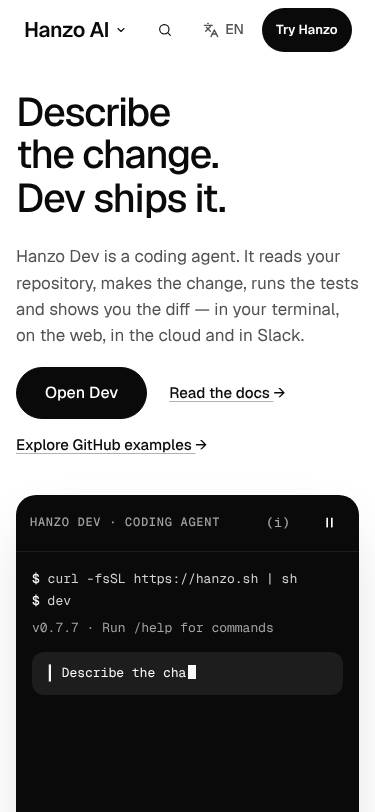
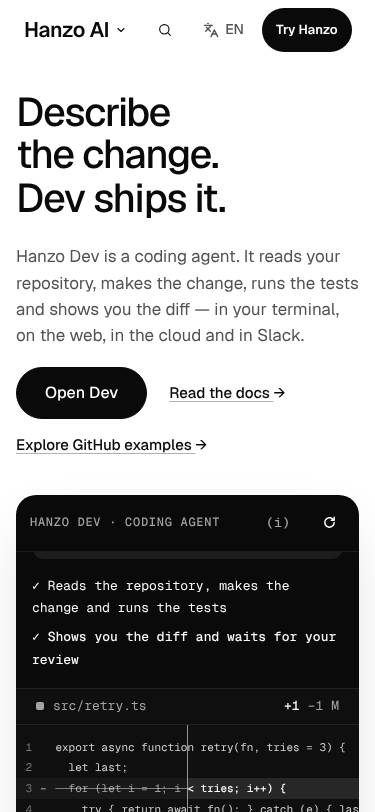
dev: every review fix closed — verifier ledger, phone diff in first screen, rail lands on card edges, deck greys, second-half motion
Claude-Session: https://claude.ai/code/session_01P5YBdx19ukLv4B41yE4M3v

diff --git a/components/pages/DevPage.css b/components/pages/DevPage.css
@@ -453,3 +453,54 @@
 .xdv-oss-p a { transition: text-underline-offset .15s, text-decoration-thickness .15s; }
 .xdv .x-codeblock .x-copy { min-height: 44px; }
 .xdv .x-faq button:active { transform: translateY(1px); }
+
+/* 11. "Built to be checked." holds the verifier's ledger for the hero's change: each line settles in turn (its dot
+   fills, its value types in), then the closing line. Without JS or under reduced motion it is shown settled. */
+.xdv-ledger { margin: 0 0 22px; padding: 6px 0 4px; border-radius: 20px; background: #0a0a0a; color: #d4d4d4; font-size: 13.5px; overflow: hidden; }
+.xdv-led-h { display: flex; align-items: center; gap: 10px; margin: 0; padding: 12px 20px 14px; border-bottom: 1px solid rgba(255, 255, 255, .08); color: #a3a3a3; font-size: 12px; letter-spacing: .08em; text-transform: uppercase; }
+.xdv-led-h i { width: 8px; height: 8px; border-radius: 2px; background: #a3a3a3; }
+.xdv-led-h em { margin-left: auto; font-style: normal; text-transform: none; letter-spacing: 0; color: #737373; }
+.xdv-ledger ol { list-style: none; margin: 0; padding: 8px 0; }
+.xdv-ledger li { display: grid; grid-template-columns: 40px minmax(0, 1fr) auto 28px; align-items: center; height: 40px; padding: 0 20px 0 14px; }
+.xdv-ledger li .n { color: #737373; text-align: right; padding-right: 14px; }
+.xdv-ledger li .k { color: #fafafa; white-space: nowrap; overflow: hidden; text-overflow: ellipsis; }
+.xdv-ledger li .v { color: #fafafa; font-weight: 500; }
+.xdv-ledger li .ok { justify-self: end; width: 10px; height: 10px; border-radius: 50%; background: #fafafa; box-shadow: 0 0 0 1.5px #fafafa; }
+.xdv-led-f { margin: 0; padding: 12px 20px 14px; border-top: 1px solid rgba(255, 255, 255, .08); color: #fafafa; }
+@media (prefers-reduced-motion: no-preference) {
+  .xdv-ledger li { transition: background-color .3s cubic-bezier(.4, 0, .2, 1); }
+  .xdv-ledger li .ok { transition: background-color .3s cubic-bezier(.4, 0, .2, 1), transform .3s cubic-bezier(.16, 1, .3, 1); transition-delay: calc(.35s + var(--i) * .45s); }
+  .xdv-ledger li .v { transition: clip-path .4s cubic-bezier(.16, 1, .3, 1); transition-delay: calc(.3s + var(--i) * .45s); }
+  .xdv-ledger li .k { transition: transform .5s cubic-bezier(.16, 1, .3, 1), opacity .5s; transition-delay: calc(var(--i) * .45s); }
+  .xdv-led-f { transition: clip-path .7s cubic-bezier(.16, 1, .3, 1) 2.2s; }
+  html.js .xdv-ledger:not([data-play]) li .ok { background: transparent; transform: scale(.7); }
+  html.js .xdv-ledger:not([data-play]) li .v { clip-path: inset(0 100% 0 0); }
+  html.js .xdv-ledger:not([data-play]) li .k { transform: translateX(-16px); opacity: 0; }
+  html.js .xdv-ledger:not([data-play]) .xdv-led-f { clip-path: inset(0 100% 0 0); }
+  /* 12. the questions slide in from the side, one after another; the agent prompt types itself across */
+  .xdv-qa-r .x-faq > * { transition: transform .7s cubic-bezier(.16, 1, .3, 1), opacity .5s; }
+  .xdv-qa-r .x-faq > :nth-child(2) { transition-delay: .07s; } .xdv-qa-r .x-faq > :nth-child(3) { transition-delay: .14s; }
+  .xdv-qa-r .x-faq > :nth-child(4) { transition-delay: .21s; } .xdv-qa-r .x-faq > :nth-child(5) { transition-delay: .28s; }
+  html.js .xdv-qa-r:not([data-play]) .x-faq > * { transform: translateX(56px); opacity: 0; }
+  .xdv-paste-r .x-codeblock-l { transition: clip-path 1.4s steps(48, end) .3s; }
+  html.js .xdv-paste-r:not([data-play]) .x-codeblock-l { clip-path: inset(0 100% 0 0); }
+}
+/* 12. the repository sits within 116px of its heading */
+.xdv-repo { margin-top: 20px; }
+/* 14. the rail's left gutter fades, so a card that has gone by never shows a word cut at the screen's edge */
+@media (min-width: 900px) {
+  .xdv-pl-view { -webkit-mask-image: linear-gradient(90deg, transparent calc(max(clamp(16px, 4vw, 32px), calc((100vw - 1280px) / 2)) - 12px), #000 max(clamp(16px, 4vw, 32px), calc((100vw - 1280px) / 2))); mask-image: linear-gradient(90deg, transparent calc(max(clamp(16px, 4vw, 32px), calc((100vw - 1280px) / 2)) - 12px), #000 max(clamp(16px, 4vw, 32px), calc((100vw - 1280px) / 2))); }
+}
+@media (max-width: 700px) {
+  /* 5. the phone sees the diff land in its first screen: a shorter log (it keeps its latest lines), a slimmer file tab */
+  .xdv-term-body { height: 136px; }
+  .xdv-file-tab { height: 36px; }
+  .xdv-ledger { font-size: 13px; }
+  .xdv-ledger li { padding-right: 14px; grid-template-columns: 34px minmax(0, 1fr) auto 24px; }
+}
+/* 9. deck greys only: the shared tokens' greys are swapped for the deck ramp on this page */
+.xdv { --soft: #737373; --faint: #a3a3a3; --card: #f5f5f5; }
+.xdv .x-tab, .xdv .x-tab-t, .xdv .x-codeblock-p { color: #737373; }
+.xdv .x-tab[aria-selected='true'], .xdv .x-tab[aria-selected='true'] .x-tab-t { color: #0a0a0a; }
+.xdv .x-copy, .xdv .x-copy-t { color: rgba(255, 255, 255, .78); }
+@media (hover: hover) { .xdv .xdv-acts .x-btn.solid:hover { background: #262626; } .xdv .x-copy:hover, .xdv .x-copy:hover .x-copy-t { color: #fafafa; } }

diff --git a/components/pages/DevPage.jsx b/components/pages/DevPage.jsx
@@ -325,6 +325,7 @@ function Places() {
   const track = useRef(null);
   const x = useMotionValue(0);
   const [lim, setLim] = useState(0);
+  const [pitch, setPitch] = useState(452); // one card and its gap
   const [drag, setDrag] = useState(false);
   useIso(() => {
     const fit = () => {
@@ -332,16 +333,21 @@ function Places() {
       if (!v || !tr) return;
       const wide = matchMedia('(min-width: 900px)').matches;
       setDrag(wide);
-      setLim(wide ? Math.max(0, tr.scrollWidth - v.clientWidth) : 0);
+      const first = tr.firstElementChild;
+      const pt = first ? first.offsetWidth + (parseFloat(getComputedStyle(tr).columnGap) || 12) : 452;
+      setPitch(pt);
+      // the end rounds up to a whole card, so the last stop also lands a card's edge on the gutter
+      setLim(wide ? Math.ceil(Math.max(0, tr.scrollWidth - v.clientWidth) / pt - 0.02) * pt : 0);
       if (!wide) x.set(0);
     };
     fit();
     addEventListener('resize', fit);
     return () => removeEventListener('resize', fit);
   }, [x]);
+  // each step lands a card's left edge on the gutter (gap included), so no card stops cut through its words
   const step = (d) => {
-    const card = track.current?.firstElementChild?.offsetWidth || 400;
-    animate(x, Math.max(-lim, Math.min(0, x.get() - d * (card + 24))), EZ);
+    const at = Math.round(-x.get() / pitch);
+    animate(x, -Math.min(lim, Math.max(0, (at + d) * pitch)), EZ);
   };
   return (
     <section className="v2a-sec xdv-places" aria-labelledby="xdv-pl-h">
@@ -361,7 +367,7 @@ function Places() {
       </div>
       {/* entrance 1 (stack-drop): the four places drop from above and stack onto their places, one after another */}
       <In kind="stack-drop" className="xdv-pl-view" boxRef={view} data-drag={drag ? '' : undefined}>
-        <motion.ul className="xdv-pl" ref={track} style={{ x }} drag={drag ? 'x' : false} dragConstraints={{ left: -lim, right: 0 }} dragElastic={0.08} dragTransition={{ power: 0.35, timeConstant: 320 }}>
+        <motion.ul className="xdv-pl" ref={track} style={{ x }} drag={drag ? 'x' : false} dragConstraints={{ left: -lim, right: 0 }} dragElastic={0.08} dragTransition={{ power: 0.35, timeConstant: 320, modifyTarget: (v) => Math.round(v / pitch) * pitch }}>
           {PLACES.map(([name, tag, d, g], i) => (
             <Play as="li" key={name} className="xdv-pl-card" style={{ '--d': i }}>
               <div className={'xdv-pl-art ' + g} aria-hidden="true"><Scene g={g} /></div>
@@ -460,6 +466,17 @@ function How() {
           </div>
         </Sheet>
         <Sheet n={2} kick="Proof" title="Built to be checked." lede="Nothing counts as done because a model said so.">
+          {/* the object: the verifier's ledger for the hero's change, one line per thing it records, each settling in turn
+              (words already on this page: the file, its +1 −1, the exit status, the tests, the diff) */}
+          <Play className="xdv-ledger x-mono" aria-hidden="true">
+            <p className="xdv-led-h"><i /><span>{PROOF[2][0]}</span><em>@acme/api (main)</em></p>
+            <ol>
+              {[['src/retry.ts', '+1 −1'], ['the exit status', '✓'], ['the tests', '✓'], ['the diff', '+1 −1']].map(([k, v], i) => (
+                <li key={k} style={{ '--i': i }}><span className="n">{String(i + 1).padStart(2, '0')}</span><span className="k">{k}</span><span className="v">{v}</span><i className="ok" /></li>
+              ))}
+            </ol>
+            <p className="xdv-led-f">✓ {HIGHLIGHTS[1]}</p>
+          </Play>
           <ul className="xdv-pr">
             {PROOF.map(([name, d]) => (
               <li key={name}>
@@ -579,7 +596,7 @@ function Source() {
           <h2 className="v2a-head">Questions &amp; Answers</h2>
           <p className="v2a-folio">Questions</p>
         </div>
-        <div className="xdv-qa-r">
+        <Play className="xdv-qa-r">
           <Faq items={QA} multi />
           <details className="xdv-read">
             <summary>
@@ -601,7 +618,7 @@ function Source() {
               ))}
             </div>
           </details>
-        </div>
+        </Play>
       </div>
     </section>
   );
@@ -618,7 +635,7 @@ function Paste() {
           <h2 className="v2a-head" id="xdv-paste-h">Paste this into any agent. It reads the skill manifest and calls Dev from there.</h2>
           <p className="v2a-folio">Paste and ship</p>
         </div>
-        <div className="xdv-paste-r"><CodeBlock code={PASTE} label="Agent prompt" /></div>
+        <Play className="xdv-paste-r"><CodeBlock code={PASTE} label="Agent prompt" /></Play>
       </div>
     </section>
   );

diff --git a/docs/review/dev.md b/docs/review/dev.md
@@ -1,5 +1,5 @@
 # /dev — James-eye review
-Ready: 2026-11-08 closing band now carries the approved "Get Hanzo Dev, $8/month" (outline under the one solid Open Dev, to /pay/confirm/card?plan=go&returnUrl=https%3A%2F%2Fhanzo.ai%2Fdev) and its headline breaks evenly; reduced motion shows the finished race (done 9.52 s / done 2.29 s at entry and after, Replay too, never 0.00); the red Next "1 Issue" badge no longer appears (0 issues across 13 fresh loads at both sizes, with and without consent and reduced motion, plus scrolled walks); phone terminal shows its whole name; closed "Read" holds no rows; FAQ rows, selected rows and the repo link answer hover; Copy is 44px. taste OK, parity 176/176 + 12/12, unique OK, check.mjs 0 errors / 0 Next issues / no overflow / 0 overlaps at 1470 and 375.
+Ready: 2026-11-08 every fix checked against the page: 1 calm race shows done 9.52 s / 2.29 s at entry (guard added, Replay too, never 0.00); 3 no Next issue badge (0 in 13 fresh loads + 8 scrolled walks); 4 no end-state flash (frame sampler 0-1.5 s: the landed + line and the poster never show before typing); 5 phone sees the diff land in its first screen (hot line at y 778-799 of 812; log keeps its latest lines) and code lines never wrap (white-space pre); 7 no seam (sheets no longer overlap: 0 intersections in a 90px-step scroll); 8 Read the docs, Explore GitHub examples and place cards answer hover (probe: no silent control but the selected tab); 9 deck greys only (tabs, Copy, prompt mark, Open Dev hover swapped page-locally; no Apple grey computed in main); 10 Copy 44px; 11 "Built to be checked." holds the verifier ledger for the hero change (283px, its lines settle in turn; words from the page); 12 Install slot-roll + tabs, open source repo zoom + line wipe, FAQ rows slide in, paste prompt types across; heading-to-object 66/114/0/4px at 1470; 14 rail steps and throws land a card on the gutter, the gone card fades out under the gutter mask; closing band keeps the approved "Get Hanzo Dev, $8/month" (outline, /pay/confirm/card?plan=go&returnUrl=https%3A%2F%2Fhanzo.ai%2Fdev) and its headline breaks evenly. Left as shared: 2 phone header ask (Ask.jsx), 6 cookie card, 13 Band blur reveal. taste OK, parity 176/176 + 12/12, unique OK, check.mjs 0 errors / 0 Next issues / no overflow / 0 overlaps at 1470 and 375.
 Verdict: 7/10
 First complaint: "On the phone there are two black buttons fighting at the top, the cookie box sits on the demo, and there's a red '1 Issue' thing in the corner of every screen. And with motion turned down the race just says 0.00 against 0.00. It doesn't look finished."
 
